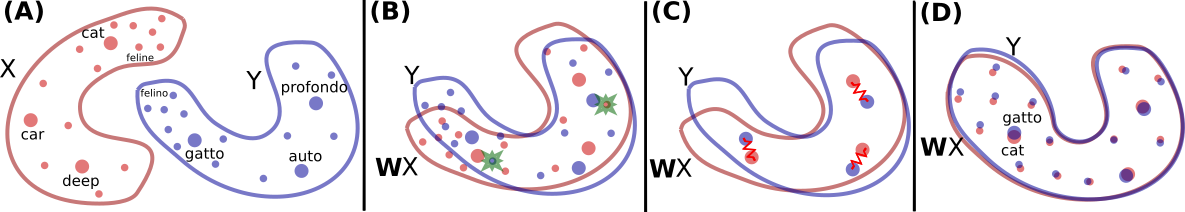
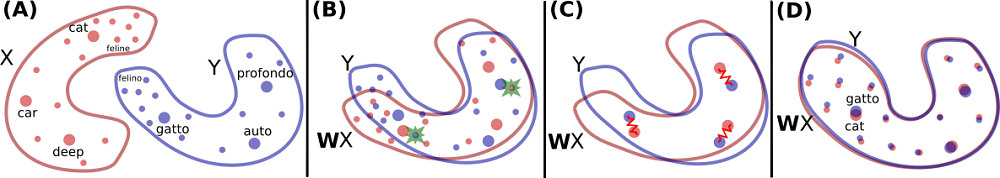
Fixed typos in chapter 5
And scaled an image to fit better

diff --git a/AI-Teacher-Guide/chapter-5.html b/AI-Teacher-Guide/chapter-5.html
@@ -302,9 +302,9 @@ But note that the translation happens in 299 dimensions!
 <img src="images/aligning-word-embeddings.png" class="center">
 <figcaption>Two ways of aligning word embeddings in different languages</figcaption></figure>
 <p>
-In the figure (A) and (B) show X being rotated to match Y to make a a small number of words in X align with their translation in Y.
+In the figure (A) and (B) show X being rotated to match Y to make a small number of words in X align with their translation in Y.
 Many other words become roughly aligned as a result.
-<a href="https://arxiv.org/pdf/1710.04087.pdf" target="_blank">Other techniques can be applied<</a> to improve the alignment.
+<a href="https://arxiv.org/pdf/1710.04087.pdf" target="_blank">Other techniques can be applied</a> to improve the alignment.
 </p>
 
 <h4 class="project-ideas-white" id="project-ideas">Possible project ideas using image recognition</h4>
